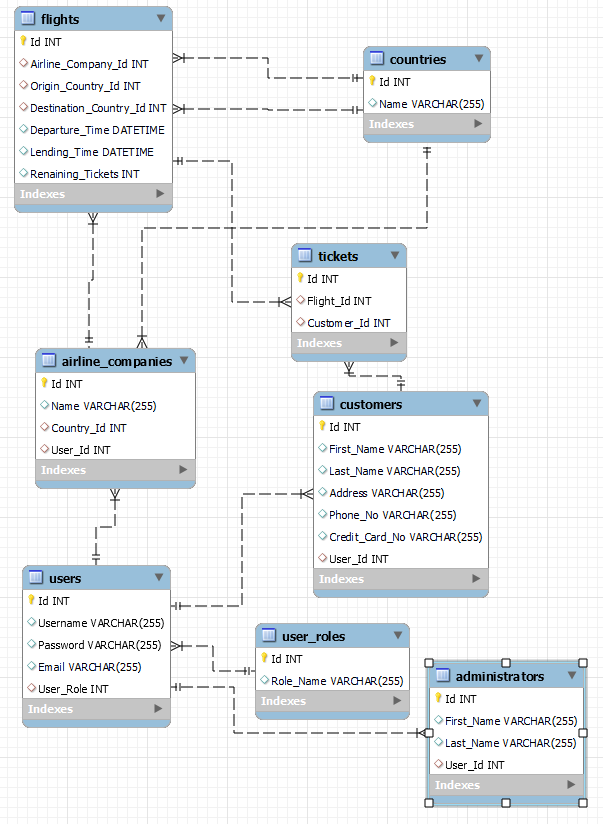
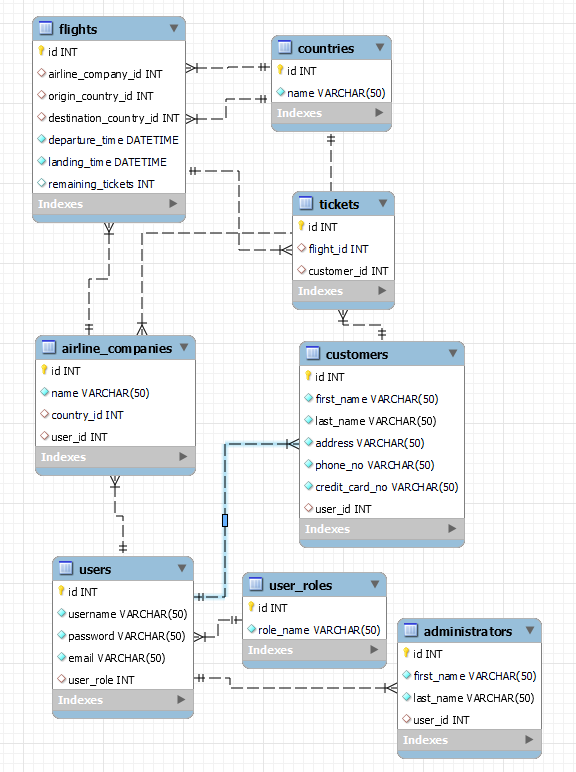
finished DB

Changed region(s): [[0.0, 0.0, 1.0, 0.9948]]

diff --git a/DB_Creation_SQLAlchemy/create_tables.py b/DB_Creation_SQLAlchemy/create_tables.py
@@ -12,7 +12,6 @@ class UserRoles(db.Model):
     __tablename__ = 'user_roles'
     id = db.Column(db.Integer, primary_key=True, autoincrement=True)
     role_name = db.Column(db.String(50), nullable=False, unique=True)
-    users_table = db.relationship('Users', backref='UserRoles')
     
     def __repr__(self): # for print option
         return f'<Table: "UserRoles", role_name:"{self.role_name}">'
@@ -23,21 +22,20 @@ class Users(db.Model):
     password = db.Column(db.String(50), nullable=False)
     email = db.Column(db.String(50), nullable=False, unique=True)
     user_role = db.Column(db.Integer, db.ForeignKey('user_roles.id'))
-    administrators_table = db.relationship('Administrators', backref='Users')
-    customers_table = db.relationship('Customers', backref='Users')
-    airline_companies_table = db.relationship('AirlineCompanies', backref='Users')
+    user_role_ = db.relationship('UserRoles')
 
     def __repr__(self):
-        return f'<Table: "Users", username:"{self.username}, password:"{self.password}, email:"{self.email}, user_role:"{self.user_role}">'
+        return f'<Table: "Users", id:"{self.id}", username:"{self.username}, password:"{self.password}, email:"{self.email}, user_role:"{self.user_role}">'
 
 class Administrators(db.Model):
     id = db.Column(db.Integer, primary_key=True, autoincrement=True)
     first_name = db.Column(db.String(50), nullable=False)
     last_name = db.Column(db.String(50), nullable=False)
     user_id = db.Column(db.Integer, db.ForeignKey('users.id'))
+    user = db.relationship('Users')
 
     def __repr__(self):
-        return f'<Table: "Administrators", first_name:"{self.first_name}, last_name:"{self.last_name}, user_id:"{self.user_id}">'
+        return f'<Table: "Administrators",id:"{self.id}", first_name:"{self.first_name}, last_name:"{self.last_name}, user_id:"{self.user_id}">'
 
 class Customers(db.Model):
     id = db.Column(db.Integer, primary_key=True, autoincrement=True)
@@ -47,18 +45,17 @@ class Customers(db.Model):
     phone_no = db.Column(db.String(50), nullable=False, unique=True)
     credit_card_no = db.Column(db.String(50), nullable=False, unique=True)
     user_id = db.Column(db.Integer, db.ForeignKey('users.id'))
-    tickets_table = db.relationship('Tickets', backref='Customers')
+    user = db.relationship('Users')
 
     def __repr__(self):
-        return f'<Table: "Customers", first_name:"{self.first_name}, last_name:"{self.last_name}, address:"{self.address},phone_no:"{self.phone_no}, credit_card_no:"{self.credit_card_no}, user_id:"{self.user_id} ">'
+        return f'<Table: "Customers",id:"{self.id}", first_name:"{self.first_name}, last_name:"{self.last_name}, address:"{self.address},phone_no:"{self.phone_no}, credit_card_no:"{self.credit_card_no}, user_id:"{self.user_id} ">'
 
 class Countries(db.Model):
     id = db.Column(db.Integer, primary_key=True, autoincrement=True)
     name = db.Column(db.String(50), nullable=False, unique=True)
-    flights_table_origin_country = db.relationship('Flights', backref='Countries')
-
+    
     def __repr__(self):
-        return f'<Table: "Countries", name:"{self.name}">'
+        return f'<Table: "Countries",id:"{self.id}", name:"{self.name}">'
 
 class AirlineCompanies(db.Model):
     __tablename__ = 'airline_companies'
@@ -66,32 +63,35 @@ class AirlineCompanies(db.Model):
     name = db.Column(db.String(50), nullable=False, unique=True)
     country_id = db.Column(db.Integer, db.ForeignKey('countries.id'))
     user_id = db.Column(db.Integer, db.ForeignKey('users.id'))
-    flights_table_origin_country = db.relationship('Flights', backref='AirlineCompanies')
+    user = db.relationship('Users')
     
     def __repr__(self):
-        return f'<Table: "AirlineCompanies", name:"{self.name}, country_id:"{self.country_id}, user_id:"{self.user_id}">'
+        return f'<Table: "AirlineCompanies",id:"{self.id}", name:"{self.name}, country_id:"{self.country_id}, user_id:"{self.user_id}">'
 
 class Flights(db.Model):
     id = db.Column(db.Integer, primary_key=True, autoincrement=True)
     airline_company_id = db.Column(db.Integer, db.ForeignKey('airline_companies.id'))
+    airline_company = db.relationship('AirlineCompanies')
     origin_country_id = db.Column(db.Integer, db.ForeignKey('countries.id'))
-    destination_country_id = db.Column(db.String(50), nullable=False)  #TODO this should be a forien key column
+    origin_country = db.relationship('Countries', foreign_keys=[origin_country_id])
+    destination_country_id = db.Column(db.Integer, db.ForeignKey('countries.id'))
+    destination_country = db.relationship('Countries', foreign_keys=[destination_country_id])
     departure_time = db.Column(db.DateTime, nullable=False)
     landing_time = db.Column(db.DateTime, nullable=False)
     remaining_tickets = db.Column(db.Integer, default=0)
-    tickets_table = db.relationship('Tickets', backref='Flights')
-    #TODO destination_country_id = db.Column(db.Integer, db.ForeignKey('countries.id'))
-
+    
     def __repr__(self):
-        return f'<Table: "Flights", airline_company_id:"{self.airline_company_id}, origin_country_id:"{self.origin_country_id}",departure_time:"{self.departure_time}",landing_time:"{self.landing_time}",remaining_tickets:"{self.remaining_tickets}">'
+        return f'<Table: "Flights",id:"{self.id}", airline_company_id:"{self.airline_company_id}, origin_country_id:"{self.origin_country_id}",destination_country_id:"{self.destination_country_id}",departure_time:"{self.departure_time}",landing_time:"{self.landing_time}",remaining_tickets:"{self.remaining_tickets}">'
 
 class Tickets(db.Model):
     id = db.Column(db.Integer, primary_key=True, autoincrement=True)
     flight_id = db.Column(db.Integer, db.ForeignKey('flights.id'))
+    flight = db.relationship('Flights')
     customer_id = db.Column(db.Integer, db.ForeignKey('customers.id'))
+    customer = db.relationship('Customers')
     
     def __repr__(self):
-        return f'<Table: "Tickets", flight_id:"{self.flight_id}",customer_id:"{self.customer_id}">'
+        return f'<Table: "Tickets",id:"{self.id}", flight_id:"{self.flight_id}",customer_id:"{self.customer_id}">'
 
 user_roles_list = ['Administrator', 'Airline_Company', 'Customer', 'Anonymous']
 users_list = [['Ofir6bd','123456789','Ofir6bd@gmail.com',1],['Ofir7bd','123456789','Ofir7bd@gmail.com',2],['Ofir8bd','123456789','Ofir8bd@gmail.com',3],['Ofir9bd','123456789','Ofir9bd@gmail.com',4],['Kobe24','123456789','Kobe24@gmail.com',3]]
@@ -99,7 +99,7 @@ administrators_list = [['John','Travolta', 1 ]]
 customers_list = [['Kobe','Bryant','Phili USA',"+1 (123) 456–7890", "5465-8776-5476-7643", 5]]
 countries_list = ['Israel', 'Marocco', 'USA', 'Lebanon']
 airlines_list = [['El-Al', 1, 1], ['Ryanair',2,2], ['Lufthansa',3,3], ['united airlines',4,4]]
-flights_list = [[1,1,'Maroco',2022,2,21,3,50,2022,2,22,4,30,100],[2,2,'Israel',2023,4,21,5,45,2023,4,26,4,30,100]]
+flights_list = [[1,1,2,2022,2,21,3,50,2022,2,22,4,30,100],[2,2,1,2023,4,21,5,45,2023,4,26,4,30,100]]
 tickets_list = [[1,1],[2,1]]
 
 if __name__ == '__main__':
@@ -176,9 +176,10 @@ if __name__ == '__main__':
         for i in range(len(tickets_list)):
             try:
                 ticket = Tickets(flight_id=tickets_list[i][0],customer_id=tickets_list[i][1])
-                # print(ticket)
+                
                 db.session.add(ticket)
                 db.session.commit()
+                print(ticket)
             except Exception as e:
                 print(f"Error: {e}")
 

diff --git a/tables_schema.py b/tables_schema.py
@@ -12,7 +12,6 @@ class UserRoles(db.Model):
     __tablename__ = 'user_roles'
     id = db.Column(db.Integer, primary_key=True, autoincrement=True)
     role_name = db.Column(db.String(50), nullable=False, unique=True)
-    users_table = db.relationship('Users', backref='UserRoles')
     
     def __repr__(self): # for print option
         return f'<Table: "UserRoles", role_name:"{self.role_name}">'
@@ -23,21 +22,20 @@ class Users(db.Model):
     password = db.Column(db.String(50), nullable=False)
     email = db.Column(db.String(50), nullable=False, unique=True)
     user_role = db.Column(db.Integer, db.ForeignKey('user_roles.id'))
-    administrators_table = db.relationship('Administrators', backref='Users')
-    customers_table = db.relationship('Customers', backref='Users')
-    airline_companies_table = db.relationship('AirlineCompanies', backref='Users')
+    user_role_ = db.relationship('UserRoles')
 
     def __repr__(self):
-        return f'<Table: "Users", username:"{self.username}, password:"{self.password}, email:"{self.email}, user_role:"{self.user_role}">'
+        return f'<Table: "Users", id:"{self.id}", username:"{self.username}, password:"{self.password}, email:"{self.email}, user_role:"{self.user_role}">'
 
 class Administrators(db.Model):
     id = db.Column(db.Integer, primary_key=True, autoincrement=True)
     first_name = db.Column(db.String(50), nullable=False)
     last_name = db.Column(db.String(50), nullable=False)
     user_id = db.Column(db.Integer, db.ForeignKey('users.id'))
+    user = db.relationship('Users')
 
     def __repr__(self):
-        return f'<Table: "Administrators", first_name:"{self.first_name}, last_name:"{self.last_name}, user_id:"{self.user_id}">'
+        return f'<Table: "Administrators",id:"{self.id}", first_name:"{self.first_name}, last_name:"{self.last_name}, user_id:"{self.user_id}">'
 
 class Customers(db.Model):
     id = db.Column(db.Integer, primary_key=True, autoincrement=True)
@@ -47,18 +45,17 @@ class Customers(db.Model):
     phone_no = db.Column(db.String(50), nullable=False, unique=True)
     credit_card_no = db.Column(db.String(50), nullable=False, unique=True)
     user_id = db.Column(db.Integer, db.ForeignKey('users.id'))
-    tickets_table = db.relationship('Tickets', backref='Customers')
+    user = db.relationship('Users')
 
     def __repr__(self):
-        return f'<Table: "Customers", first_name:"{self.first_name}, last_name:"{self.last_name}, address:"{self.address},phone_no:"{self.phone_no}, credit_card_no:"{self.credit_card_no}, user_id:"{self.user_id} ">'
+        return f'<Table: "Customers",id:"{self.id}", first_name:"{self.first_name}, last_name:"{self.last_name}, address:"{self.address},phone_no:"{self.phone_no}, credit_card_no:"{self.credit_card_no}, user_id:"{self.user_id} ">'
 
 class Countries(db.Model):
     id = db.Column(db.Integer, primary_key=True, autoincrement=True)
     name = db.Column(db.String(50), nullable=False, unique=True)
-    flights_table_origin_country = db.relationship('Flights', backref='Countries')
-
+    
     def __repr__(self):
-        return f'<Table: "Countries", name:"{self.name}">'
+        return f'<Table: "Countries",id:"{self.id}", name:"{self.name}">'
 
 class AirlineCompanies(db.Model):
     __tablename__ = 'airline_companies'
@@ -66,32 +63,34 @@ class AirlineCompanies(db.Model):
     name = db.Column(db.String(50), nullable=False, unique=True)
     country_id = db.Column(db.Integer, db.ForeignKey('countries.id'))
     user_id = db.Column(db.Integer, db.ForeignKey('users.id'))
-    flights_table_origin_country = db.relationship('Flights', backref='AirlineCompanies')
+    user = db.relationship('Users')
     
     def __repr__(self):
-        return f'<Table: "AirlineCompanies", name:"{self.name}, country_id:"{self.country_id}, user_id:"{self.user_id}">'
+        return f'<Table: "AirlineCompanies",id:"{self.id}", name:"{self.name}, country_id:"{self.country_id}, user_id:"{self.user_id}">'
 
 class Flights(db.Model):
     id = db.Column(db.Integer, primary_key=True, autoincrement=True)
     airline_company_id = db.Column(db.Integer, db.ForeignKey('airline_companies.id'))
+    airline_company = db.relationship('AirlineCompanies')
     origin_country_id = db.Column(db.Integer, db.ForeignKey('countries.id'))
-    destination_country_id = db.Column(db.String(50), nullable=False)  #TODO this should be a forien key column
+    origin_country = db.relationship('Countries', foreign_keys=[origin_country_id])
+    destination_country_id = db.Column(db.Integer, db.ForeignKey('countries.id'))
+    destination_country = db.relationship('Countries', foreign_keys=[destination_country_id])
     departure_time = db.Column(db.DateTime, nullable=False)
     landing_time = db.Column(db.DateTime, nullable=False)
     remaining_tickets = db.Column(db.Integer, default=0)
-    tickets_table = db.relationship('Tickets', backref='Flights')
-    #TODO destination_country_id = db.Column(db.Integer, db.ForeignKey('countries.id'))
-
+    
     def __repr__(self):
-        return f'<Table: "Flights", airline_company_id:"{self.airline_company_id}, origin_country_id:"{self.origin_country_id}",departure_time:"{self.departure_time}",landing_time:"{self.landing_time}",remaining_tickets:"{self.remaining_tickets}">'
+        return f'<Table: "Flights",id:"{self.id}", airline_company_id:"{self.airline_company_id}, origin_country_id:"{self.origin_country_id}",destination_country_id:"{self.destination_country_id}",departure_time:"{self.departure_time}",landing_time:"{self.landing_time}",remaining_tickets:"{self.remaining_tickets}">'
 
 class Tickets(db.Model):
     id = db.Column(db.Integer, primary_key=True, autoincrement=True)
     flight_id = db.Column(db.Integer, db.ForeignKey('flights.id'))
+    flight = db.relationship('Flights')
     customer_id = db.Column(db.Integer, db.ForeignKey('customers.id'))
+    customer = db.relationship('Customers')
     
     def __repr__(self):
-        return f'<Table: "Tickets", flight_id:"{self.flight_id}",customer_id:"{self.customer_id}">'
-
+        return f'<Table: "Tickets",id:"{self.id}", flight_id:"{self.flight_id}",customer_id:"{self.customer_id}">'
 
 
